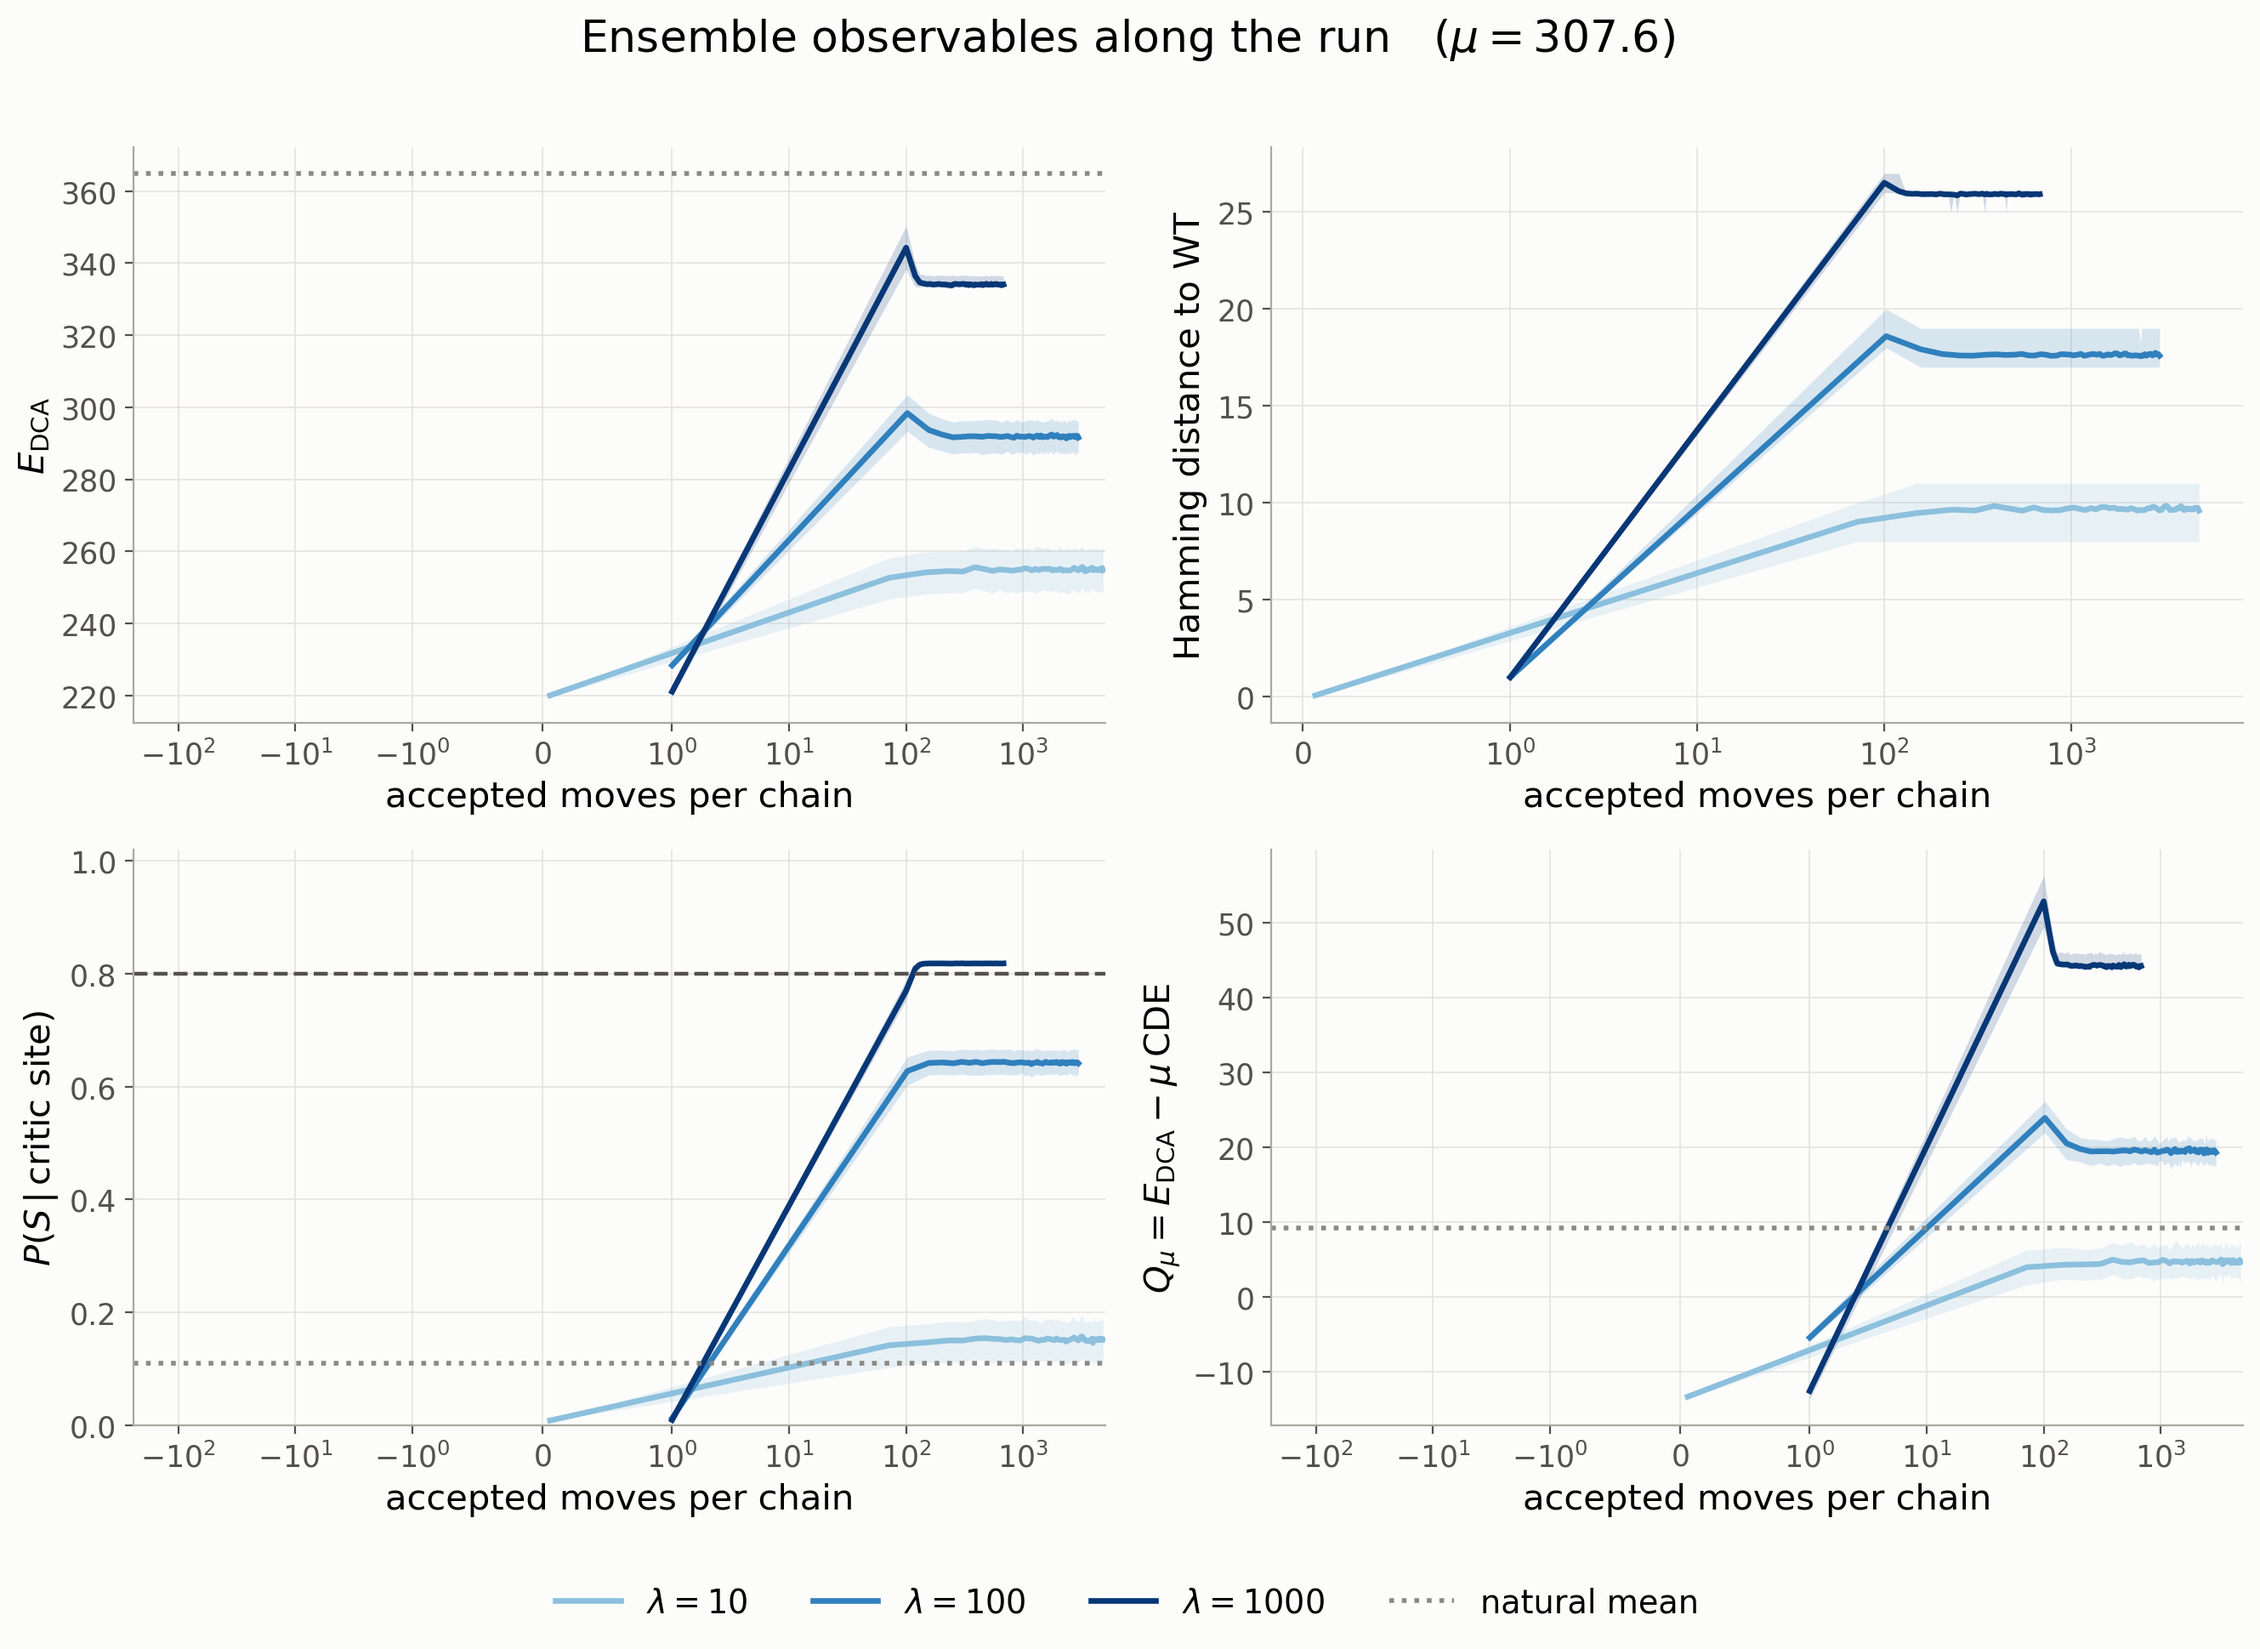
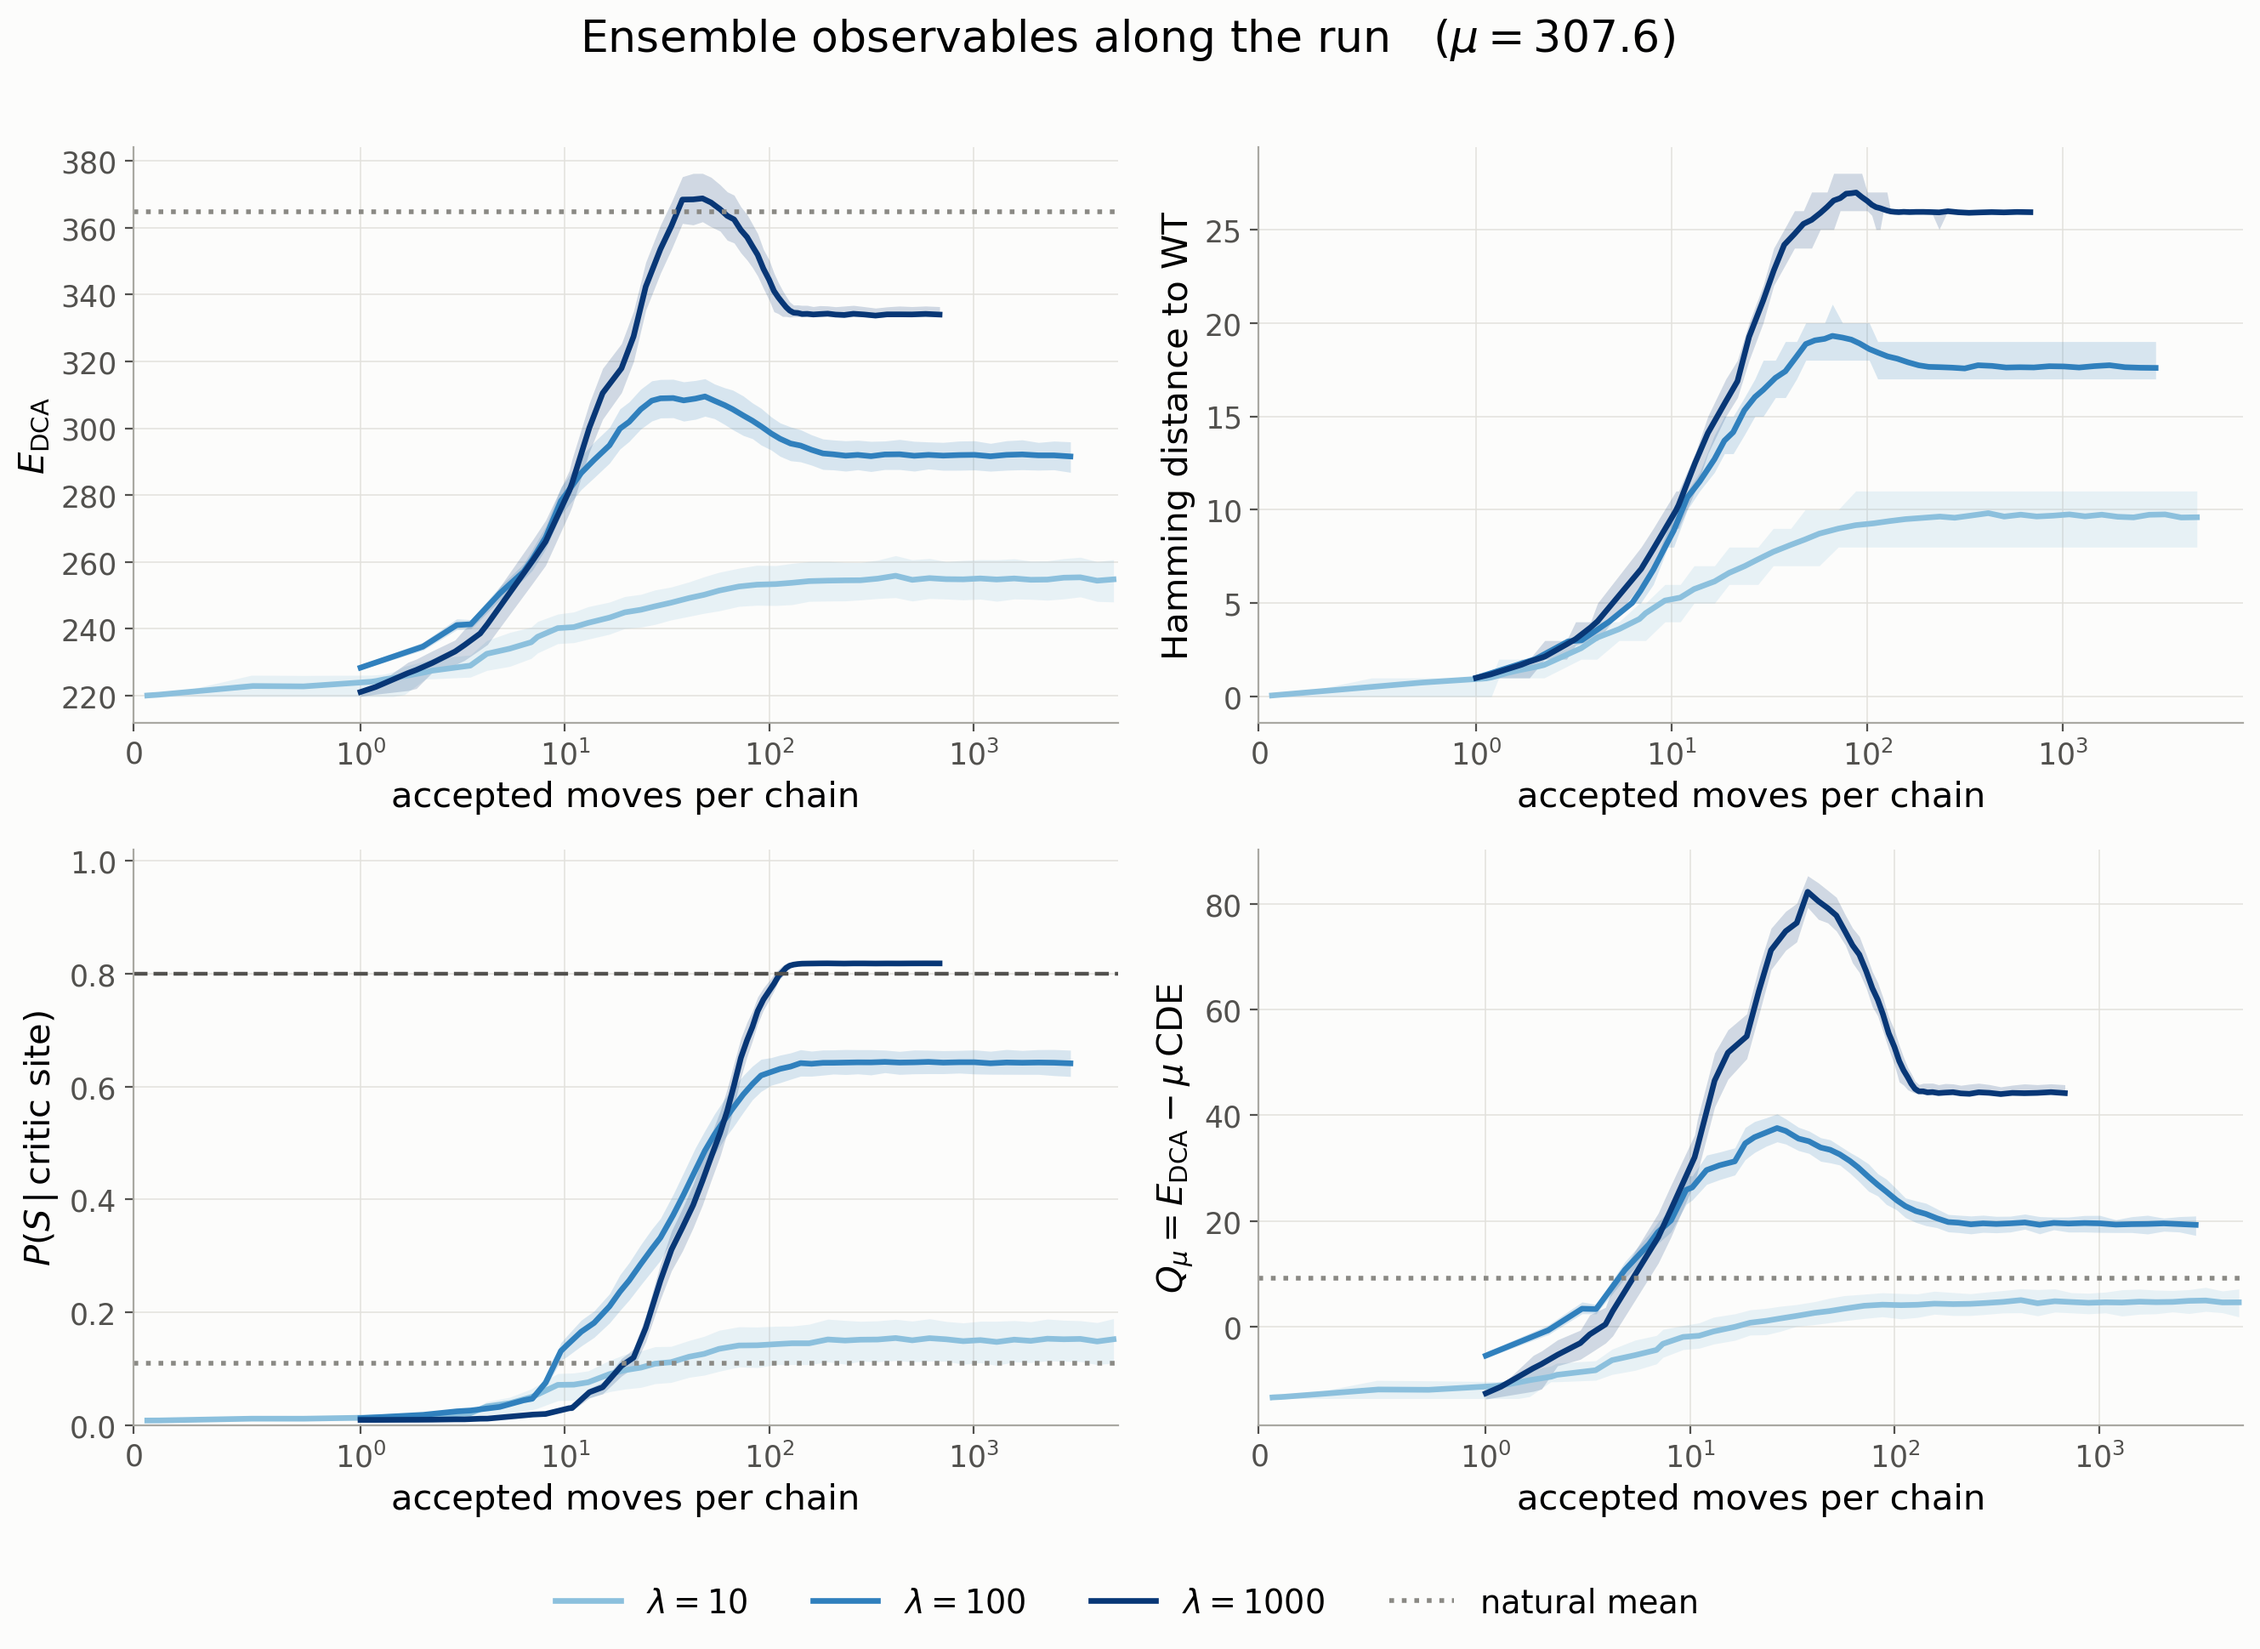
Log-spaced trace figure: the ensemble overshoots before it settles
Re-ran the sweep with --trace-schedule log; the final sequences are bit-identical
to the linear-schedule run, confirming the trace does not perturb the chains.

diff --git a/README.md b/README.md
@@ -354,13 +354,18 @@ across the 1000 chains as a band, against the mean number of **accepted** moves
 per chain (`--x proposed` for proposed steps instead, `--log-x` for the log
 axis that makes the transient visible). The dotted rule is the natural mean.
 
-Equilibration is quick and not monotone: the chains reach their plateau within
-roughly a hundred accepted moves, and at the large lambdas they **overshoot** —
-energy and sample quality peak above their stationary values and then relax
-back while `P(S)` is still inching up. The bias drags the sequence up the energy
-scale first and the chain anneals part of that cost away afterwards, which is
-also why a run truncated at a few thousand proposed steps reports a worse
-energy than the equilibrium one.
+Equilibration is quick and distinctly **not monotone**. Everything happens
+inside the first ~100 accepted moves per chain, and at the large lambdas the
+ensemble overshoots badly before settling: at lambda = 1000 the mean energy
+peaks near 368 around 40 accepted moves — *above* the natural mean of 365 —
+and then relaxes to its stationary 334, while the sample quality peaks near 83
+and falls back to 44. The bias drags the sequence up the energy scale first and
+the chain anneals part of that cost away afterwards, once `P(S)` has nothing
+left to gain. Two practical consequences: a run truncated at a few thousand
+proposed steps reports a materially worse energy than the equilibrium one, and
+the `P(S)` panel shows lambda = 1000 rising *later* per accepted move than
+lambda = 100 — it accepts far less often (0.011 against 0.050), and the moves
+it does accept are the committed ones.
 
 ## Layout
 
